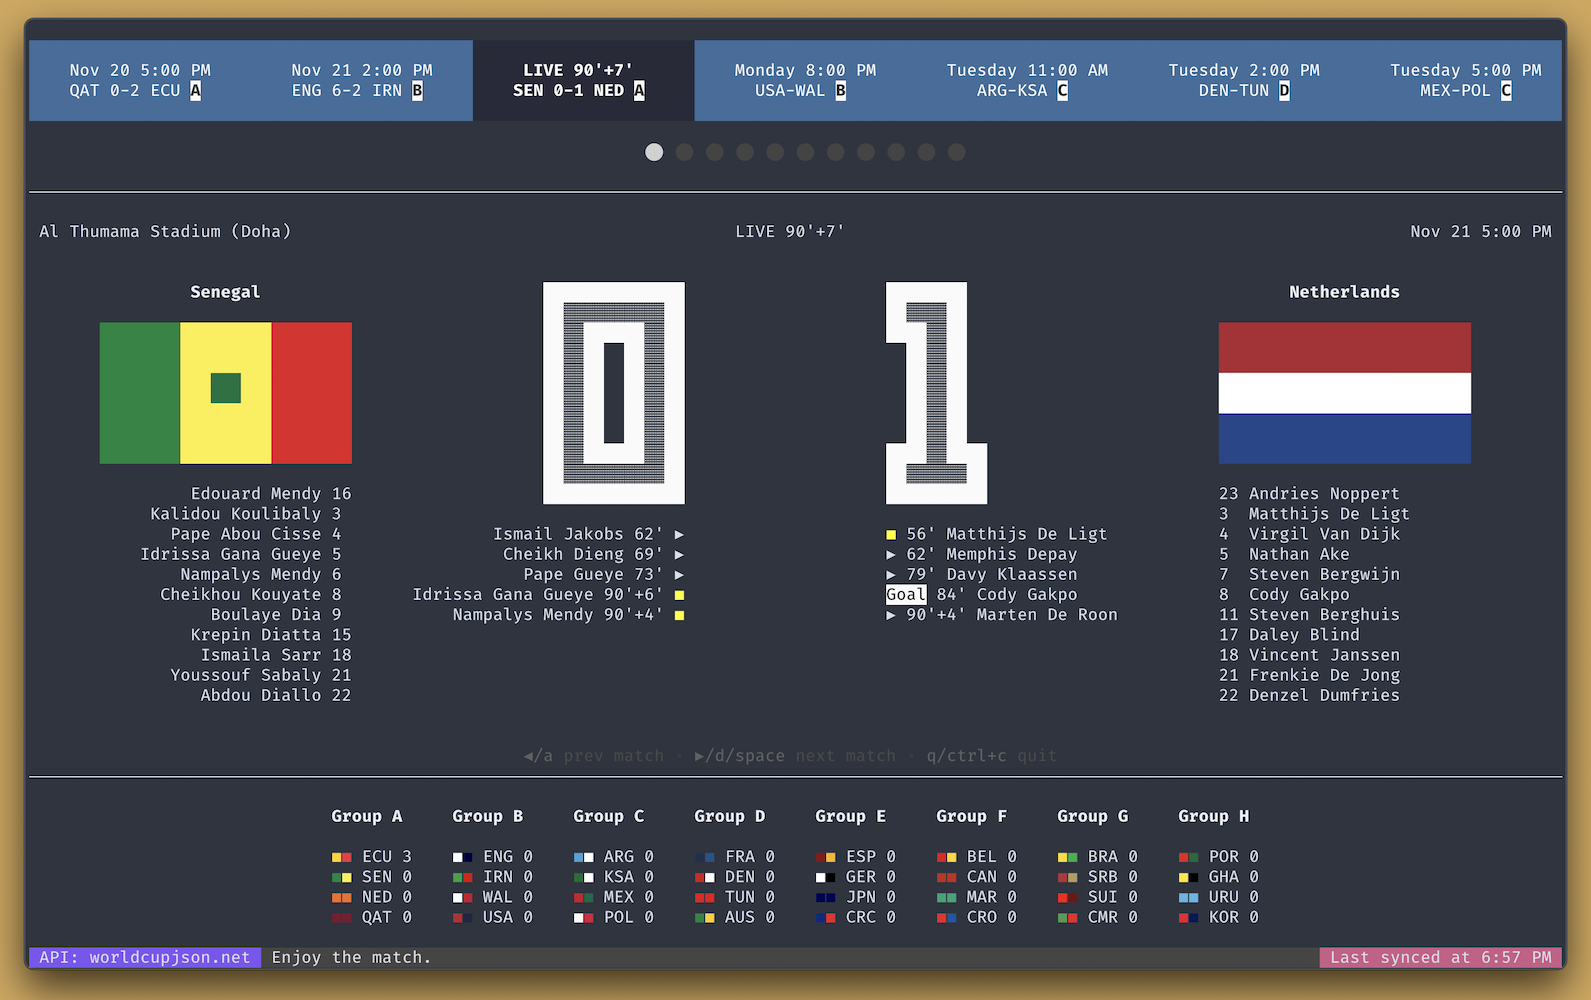
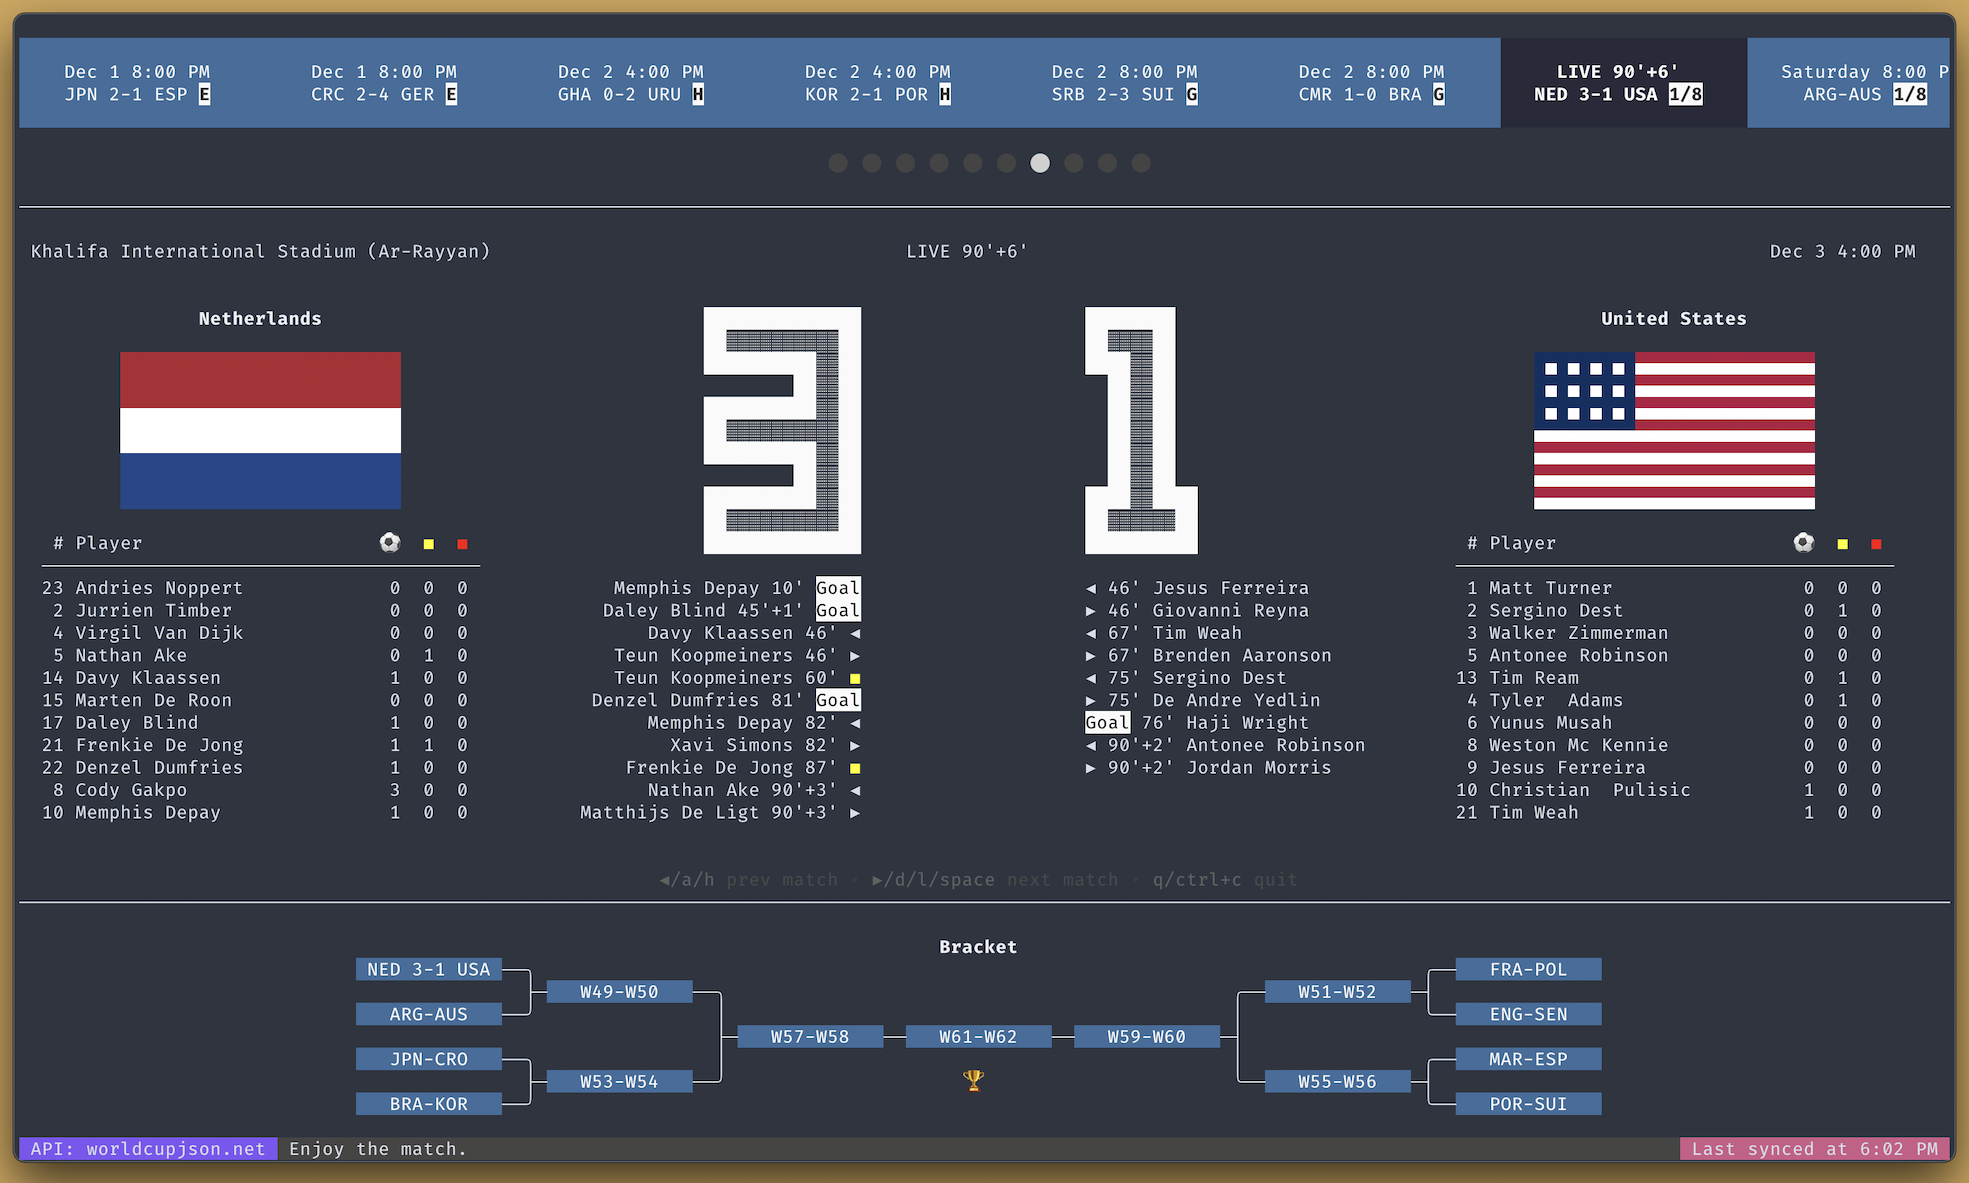
Update screenshot and features in README

Changed region(s): [[0.0, 0.0, 1.0, 1.0], [0.7392, 0.248, 0.9547, 0.713], [0.5236, 0.248, 0.7084, 0.651]]

diff --git a/README.md b/README.md
@@ -9,7 +9,8 @@
 - ⚽ Live matches (goals, bookings, substitutions)
 - 🗒 Team lineups
 - 📅 Scheduled and past matches
-- 📊 Standings
+- 📒 Standings & bracket
+- 📊 Player stats (goals, yellow cards, red cards)
 
 ## Install
 
